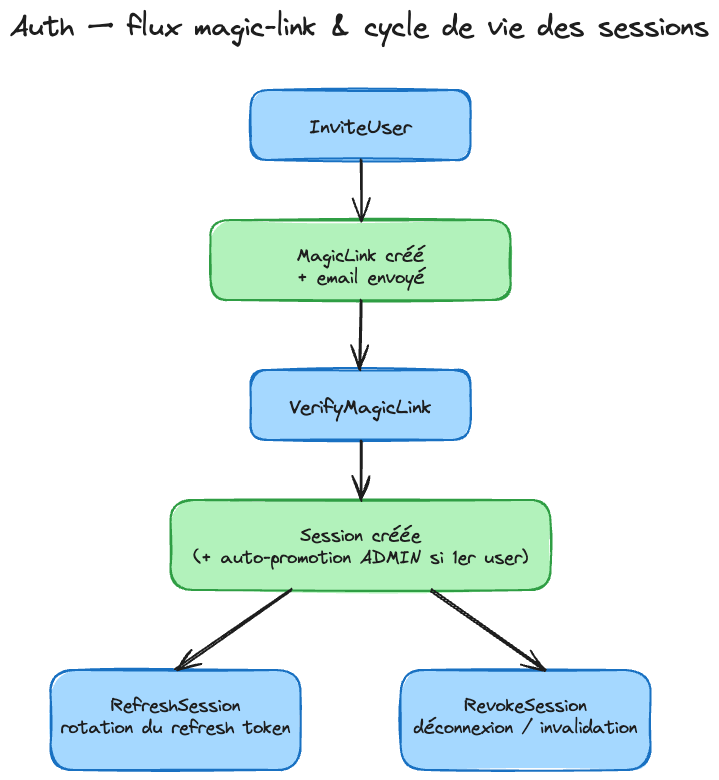
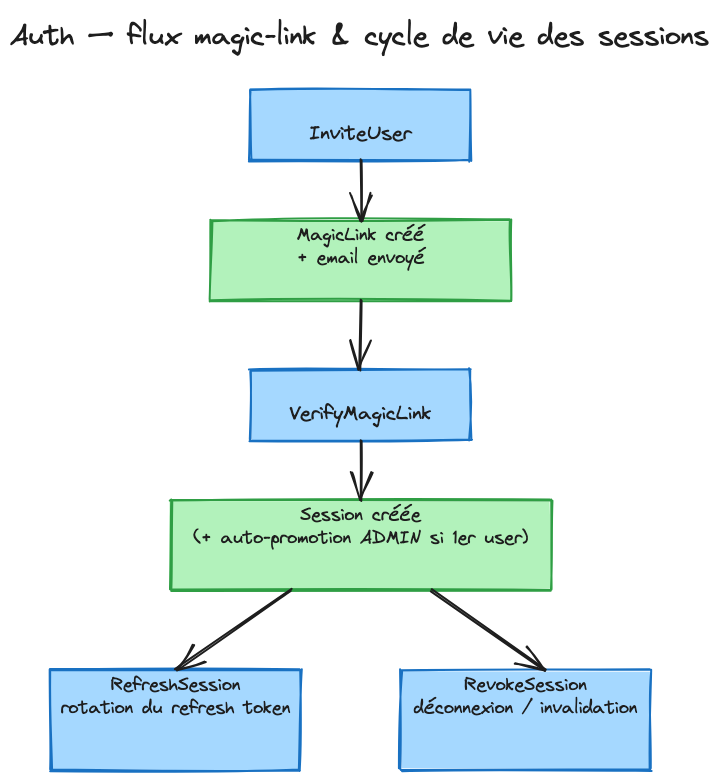
feat(excalidraw-export): convert .excalidraw diagrams to fidelity-true PNG
@tommywalkie/excalidraw-cli's home-made renderer produces blank PNGs for
bound text and bound arrows. This drives @excalidraw/utils.exportToBlob — the
real Excalidraw renderer — inside a headless Chromium page (Playwright),
exactly the environment excalidraw.com itself runs in.

The scene format no longer persists `baseline` on text elements (the editor
computes it at runtime), but exportToBlob@0.1.2 still reads it directly and
turns a missing value into NaN, silently dropping the text. normalizeScene
backfills it from fontSize before rendering.

Exposed via `npm run export-diagram -- <input> [output]`, with batch support
for a directory of *.excalidraw files. Regenerated docs/sessions/diagrams/auth-flow.png
through the new tool to prove fidelity on the real bound-text/bound-arrow diagram.

diff --git a/packages/excalidraw-export/src/render-scene.ts b/packages/excalidraw-export/src/render-scene.ts
@@ -1,0 +1,92 @@
+import { chromium } from 'playwright';
+import * as esbuild from 'esbuild';
+import type { ExcalidrawScene } from './excalidraw-scene';
+
+const EXCALIDRAW_FONTS = {
+  Virgil: 'https://excalidraw.com/Virgil.woff2',
+  Cascadia: 'https://excalidraw.com/Cascadia.woff2',
+} as const;
+
+let bundledExcalidrawUtils: Promise<string> | undefined;
+
+/**
+ * @excalidraw/utils ships a browser-only UMD bundle (relies on `window`,
+ * `document`, canvas text metrics, …). jsdom polyfilling cascades
+ * indefinitely; a real headless Chromium page is the only environment that
+ * renders bound text and bound arrows exactly like excalidraw.com.
+ */
+function bundledUtils(): Promise<string> {
+  bundledExcalidrawUtils ??= esbuild
+    .build({
+      stdin: {
+        contents: `export * as ExcalidrawUtils from '@excalidraw/utils';`,
+        resolveDir: import.meta.dirname,
+        loader: 'ts',
+      },
+      bundle: true,
+      format: 'iife',
+      globalName: 'ExcalidrawExport',
+      platform: 'browser',
+      write: false,
+    })
+    .then(
+      (result) =>
+        `${result.outputFiles[0]?.text}\nwindow.ExcalidrawUtils = ExcalidrawExport.ExcalidrawUtils;`,
+    );
+
+  return bundledExcalidrawUtils;
+}
+
+export async function renderSceneToPng(scene: ExcalidrawScene): Promise<Buffer> {
+  const bundle = await bundledUtils();
+  const browser = await chromium.launch();
+
+  try {
+    const page = await browser.newPage();
+    await page.setContent('<!DOCTYPE html><html><body></body></html>');
+    await page.addScriptTag({ content: bundle });
+
+    const dataUrl = await page.evaluate(exportSceneToPngDataUrl, {
+      scene,
+      fonts: EXCALIDRAW_FONTS,
+    });
+
+    return Buffer.from(dataUrl.split(',')[1] ?? '', 'base64');
+  } finally {
+    await browser.close();
+  }
+}
+
+/** Runs inside the headless page — every reference here must be browser-native. */
+async function exportSceneToPngDataUrl(input: {
+  scene: ExcalidrawScene;
+  fonts: Record<string, string>;
+}): Promise<string> {
+  for (const [family, url] of Object.entries(input.fonts)) {
+    const font = new FontFace(family, `url(${url})`);
+    await font.load();
+    document.fonts.add(font);
+  }
+  await document.fonts.ready;
+
+  const utils = (window as unknown as { ExcalidrawUtils: typeof import('@excalidraw/utils') })
+    .ExcalidrawUtils;
+  const blob = await utils.exportToBlob({
+    elements: input.scene.elements,
+    appState: {
+      ...input.scene.appState,
+      exportBackground: true,
+      viewBackgroundColor:
+        (input.scene.appState?.['viewBackgroundColor'] as string | undefined) ?? '#ffffff',
+    },
+    files: input.scene.files ?? null,
+    mimeType: 'image/png',
+  });
+
+  return await new Promise<string>((resolve, reject) => {
+    const reader = new FileReader();
+    reader.onload = () => resolve(reader.result as string);
+    reader.onerror = () => reject(reader.error);
+    reader.readAsDataURL(blob);
+  });
+}

diff --git a/packages/excalidraw-export/src/__tests__/excalidraw-scene.spec.ts b/packages/excalidraw-export/src/__tests__/excalidraw-scene.spec.ts
@@ -1,0 +1,34 @@
+import { describe, expect, it } from 'vitest';
+import { normalizeScene, type ExcalidrawElement } from '../excalidraw-scene';
+
+function textElement(overrides: Partial<ExcalidrawElement> = {}): ExcalidrawElement {
+  return { type: 'text', fontSize: 20, ...overrides };
+}
+
+describe('normalizeScene', () => {
+  it('should backfill baseline when text element omits it', () => {
+    const scene = normalizeScene({ elements: [textElement({ fontSize: 28 })] });
+
+    expect(scene.elements[0]?.['baseline']).toBe(34);
+  });
+
+  it('should keep existing baseline when text element already has one', () => {
+    const scene = normalizeScene({ elements: [textElement({ fontSize: 28, baseline: 25 })] });
+
+    expect(scene.elements[0]?.['baseline']).toBe(25);
+  });
+
+  it('should leave non-text elements untouched', () => {
+    const rectangle: ExcalidrawElement = { type: 'rectangle', width: 100, height: 50 };
+
+    const scene = normalizeScene({ elements: [rectangle] });
+
+    expect(scene.elements[0]).toEqual(rectangle);
+  });
+
+  it('should fall back to a default font size when text element has none', () => {
+    const scene = normalizeScene({ elements: [{ type: 'text' }] });
+
+    expect(scene.elements[0]?.['baseline']).toBe(24);
+  });
+});

diff --git a/packages/excalidraw-export/src/excalidraw-scene.ts b/packages/excalidraw-export/src/excalidraw-scene.ts
@@ -1,0 +1,35 @@
+export type ExcalidrawElement = {
+  readonly type: string;
+  readonly fontSize?: number;
+  readonly baseline?: number;
+} & Record<string, unknown>;
+
+export type ExcalidrawScene = {
+  readonly elements: ReadonlyArray<ExcalidrawElement>;
+  readonly appState?: Record<string, unknown>;
+  readonly files?: Record<string, unknown> | null;
+} & Record<string, unknown>;
+
+const BASELINE_TO_FONT_SIZE_RATIO = 1.2;
+
+/**
+ * @excalidraw/utils@0.1.2 reads `baseline` straight off text elements and uses
+ * it in arithmetic (`height - baseline`); current Excalidraw scene files no
+ * longer persist it (computed at runtime by the editor), so a missing value
+ * becomes `NaN` and the renderer silently draws nothing. Backfill it.
+ */
+export function normalizeScene(scene: ExcalidrawScene): ExcalidrawScene {
+  return {
+    ...scene,
+    elements: scene.elements.map(normalizeElement),
+  };
+}
+
+function normalizeElement(element: ExcalidrawElement): ExcalidrawElement {
+  if (element.type !== 'text' || typeof element.baseline === 'number') {
+    return element;
+  }
+
+  const fontSize = element.fontSize ?? 20;
+  return { ...element, baseline: Math.round(fontSize * BASELINE_TO_FONT_SIZE_RATIO) };
+}

diff --git a/packages/excalidraw-export/src/export-diagram.ts b/packages/excalidraw-export/src/export-diagram.ts
@@ -1,0 +1,35 @@
+import { readFile, writeFile } from 'node:fs/promises';
+import { extname, join } from 'node:path';
+import { glob } from 'node:fs/promises';
+import { normalizeScene, type ExcalidrawScene } from './excalidraw-scene';
+import { renderSceneToPng } from './render-scene';
+
+export type ExportResult = {
+  readonly inputPath: string;
+  readonly outputPath: string;
+};
+
+export async function exportDiagramToPng(
+  inputPath: string,
+  outputPath: string,
+): Promise<ExportResult> {
+  const scene = JSON.parse(await readFile(inputPath, 'utf8')) as ExcalidrawScene;
+  const png = await renderSceneToPng(normalizeScene(scene));
+  await writeFile(outputPath, png);
+
+  return { inputPath, outputPath };
+}
+
+export async function exportDiagramsInDirectory(
+  directoryPath: string,
+): Promise<ReadonlyArray<ExportResult>> {
+  const results: ExportResult[] = [];
+
+  for await (const entry of glob('**/*.excalidraw', { cwd: directoryPath })) {
+    const inputPath = join(directoryPath, entry);
+    const outputPath = `${inputPath.slice(0, -extname(inputPath).length)}.png`;
+    results.push(await exportDiagramToPng(inputPath, outputPath));
+  }
+
+  return results;
+}

diff --git a/packages/excalidraw-export/src/cli.ts b/packages/excalidraw-export/src/cli.ts
@@ -1,0 +1,23 @@
+import { stat } from 'node:fs/promises';
+import { extname } from 'node:path';
+import { exportDiagramsInDirectory, exportDiagramToPng, type ExportResult } from './export-diagram';
+
+async function run(argv: ReadonlyArray<string>): Promise<ReadonlyArray<ExportResult>> {
+  const [input, output] = argv;
+  if (!input) {
+    throw new Error('Usage: export-diagram <input.excalidraw|directory> [output.png]');
+  }
+
+  const inputStat = await stat(input);
+  if (inputStat.isDirectory()) {
+    return exportDiagramsInDirectory(input);
+  }
+
+  const outputPath = output ?? `${input.slice(0, -extname(input).length)}.png`;
+  return [await exportDiagramToPng(input, outputPath)];
+}
+
+const results = await run(process.argv.slice(2));
+for (const result of results) {
+  console.log(`${result.inputPath} → ${result.outputPath}`);
+}

diff --git a/packages/excalidraw-export/src/excalidraw-utils.d.ts b/packages/excalidraw-export/src/excalidraw-utils.d.ts
@@ -1,0 +1,8 @@
+declare module '@excalidraw/utils' {
+  export function exportToBlob(options: {
+    elements: ReadonlyArray<unknown>;
+    appState?: Record<string, unknown>;
+    files?: Record<string, unknown> | null;
+    mimeType?: string;
+  }): Promise<Blob>;
+}

diff --git a/packages/excalidraw-export/src/index.ts b/packages/excalidraw-export/src/index.ts
@@ -1,0 +1,3 @@
+export { normalizeScene, type ExcalidrawScene, type ExcalidrawElement } from './excalidraw-scene';
+export { renderSceneToPng } from './render-scene';
+export { exportDiagramToPng, exportDiagramsInDirectory, type ExportResult } from './export-diagram';

diff --git a/packages/excalidraw-export/vitest.config.ts b/packages/excalidraw-export/vitest.config.ts
@@ -1,0 +1,7 @@
+import { defineConfig } from 'vitest/config';
+
+export default defineConfig({
+  test: {
+    environment: 'node',
+  },
+});

diff --git a/packages/excalidraw-export/README.md b/packages/excalidraw-export/README.md
@@ -1,0 +1,35 @@
+# @home/excalidraw-export
+
+Convertit des fichiers `.excalidraw` (JSON) en PNG fidèles — texte lié (`containerId`/`boundElements`) et flèches bindées (`startBinding`/`endBinding`) inclus.
+
+## Pourquoi pas un renderer "headless" classique ?
+
+- [`@tommywalkie/excalidraw-cli`](https://github.com/tommywalkie/excalidraw-cli) utilise un renderer maison (Rough.js + node-canvas) qui ne supporte ni le texte lié ni les flèches bindées → PNG vides.
+- [`@excalidraw/utils`](https://www.npmjs.com/package/@excalidraw/utils) (le vrai renderer Excalidraw) est un bundle **navigateur** : `window`, `document`, mesure de texte via `canvas`, polices via `FontFace`. Le faire tourner via des polyfills `jsdom` se transforme en chasse aux globals sans fin (`navigator` → `self` → `requestAnimationFrame` → `matchMedia` → `DOMMatrix` → … → blocage silencieux).
+
+Ce package pilote donc un vrai **Chromium headless** (Playwright) — exactement l'environnement dans lequel excalidraw.com s'exécute — et y exécute `@excalidraw/utils.exportToBlob`.
+
+## Le correctif clé : `baseline`
+
+`@excalidraw/utils@0.1.2` lit `baseline` directement sur les éléments texte et l'utilise dans des calculs (`height - baseline`). Les fichiers `.excalidraw` actuels ne persistent plus ce champ (l'éditeur le calcule à la volée) → `undefined` → `NaN` → le texte ne se dessine pas, silencieusement. `normalizeScene` (dans `excalidraw-scene.ts`) le recalcule depuis `fontSize` avant le rendu.
+
+## Usage
+
+```bash
+# Fichier unique
+npm run export-diagram -- docs/sessions/diagrams/auth-flow.excalidraw docs/sessions/diagrams/auth-flow.png
+
+# Sortie déduite (même nom, extension .png)
+npm run export-diagram -- docs/sessions/diagrams/auth-flow.excalidraw
+
+# Batch : tous les *.excalidraw d'un dossier (récursif), PNG à côté de chaque source
+npm run export-diagram -- docs/sessions/diagrams
+```
+
+## Pré-requis
+
+Chromium doit être installé pour Playwright (une fois par machine) :
+
+```bash
+npx playwright install chromium
+```
